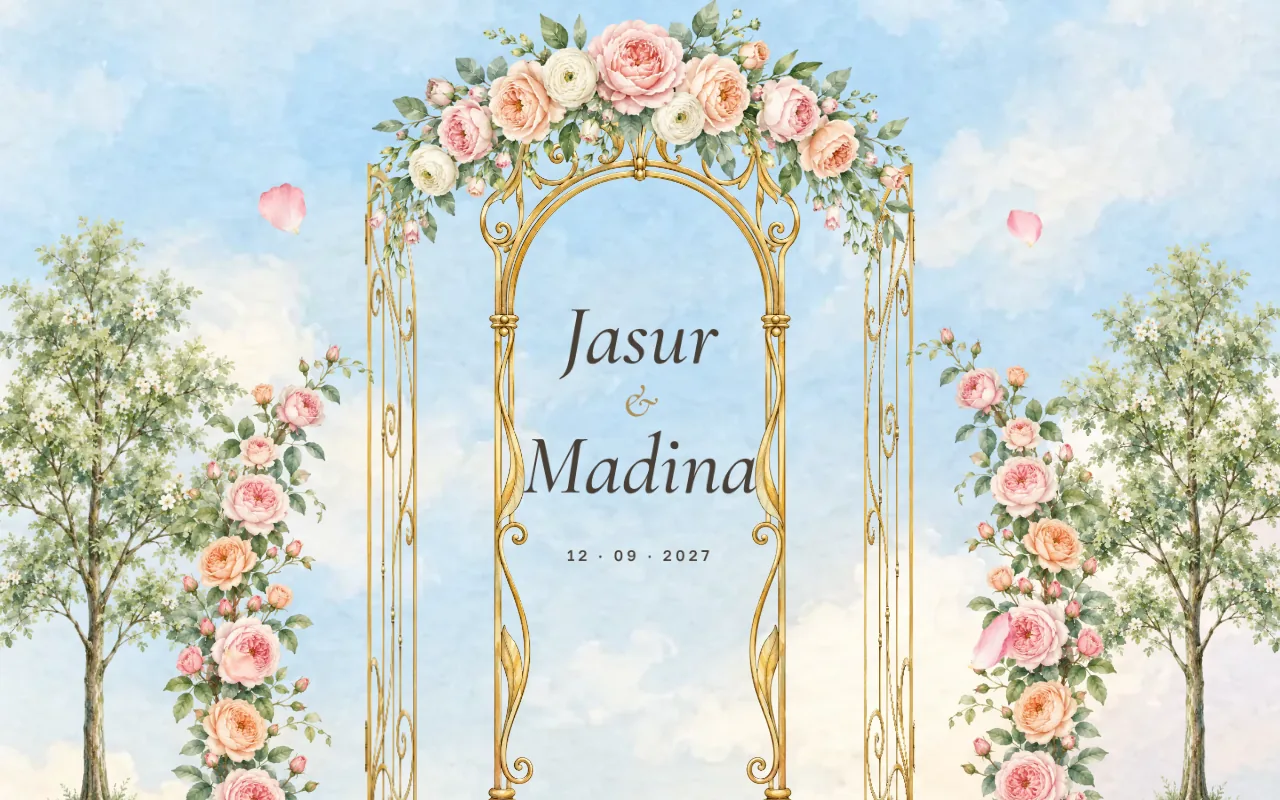
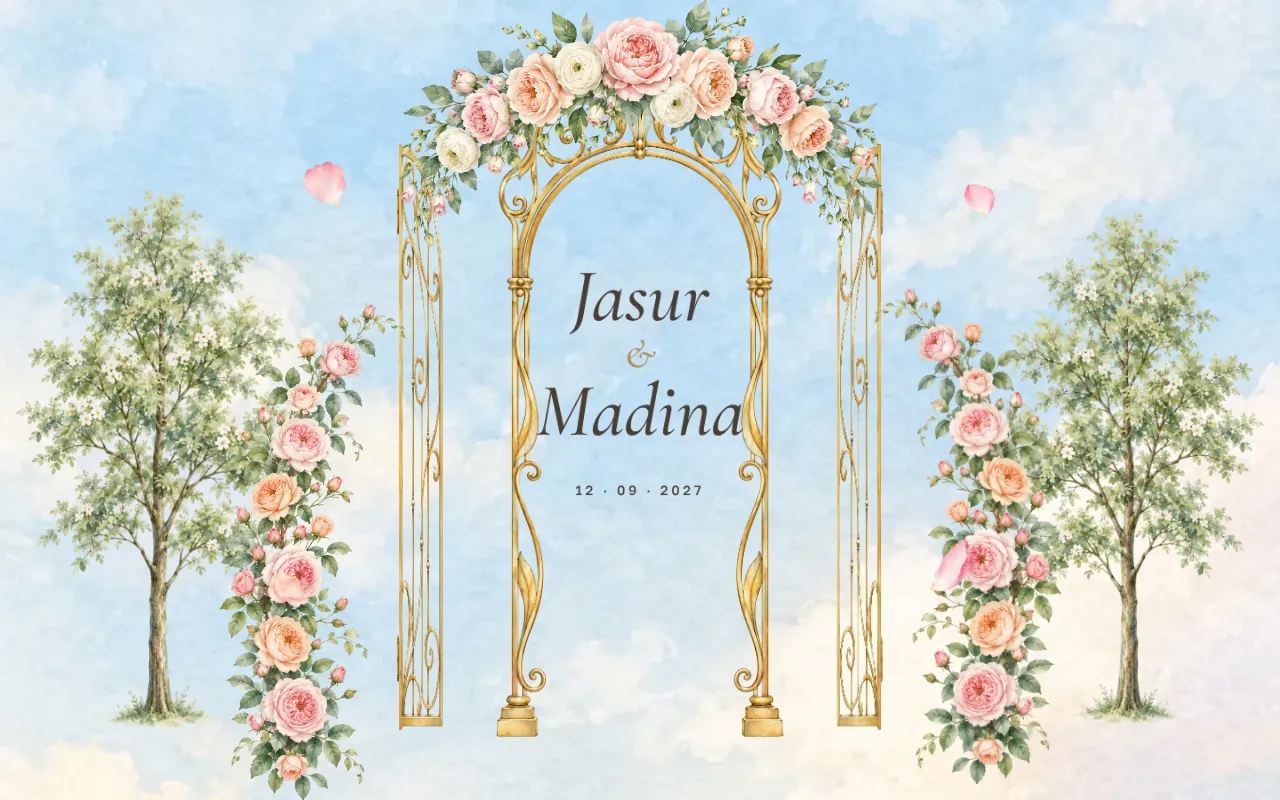
Shato: per-element appear animations, full-height gate, programme text width, new posters
Claude-Session: https://claude.ai/code/session_016Xzx6FBjREiHoteT8V9Jy8

diff --git a/src/components/templates/shato/ShatoSite.tsx b/src/components/templates/shato/ShatoSite.tsx
@@ -122,6 +122,56 @@ function Sec({ children, className, style, ready, threshold, id, z, onP }: { chi
   );
 }
 
+/**
+ * Appear: har bir [data-a] element (va so‘z) o‘zi ekranga kirganda `data-in` oladi — butun bo‘lim birdan emas.
+ * Yuqorida qolganlar (sahifa o‘rtasidan qayta yuklanganda) darrov ko‘rsatiladi. Keyin qo‘shilgan elementlar ham kuzatiladi.
+ */
+function useReveal(root: React.RefObject<HTMLDivElement | null>, ready: boolean, all: boolean) {
+  useEffect(() => {
+    const el = root.current;
+    if (!el || !ready) return;
+    const SEL = "[data-a]:not([data-in]),[data-w]:not([data-in])";
+    if (all) {
+      el.querySelectorAll<HTMLElement>(SEL).forEach((x) => x.setAttribute("data-in", ""));
+      return;
+    }
+    // Scroll bo‘yicha joylashuv tekshiruvi (IntersectionObserver ota elementning kesilishi tufayli chetdagi bezaklarni o‘tkazib yuborardi)
+    let list: HTMLElement[] = [];
+    let raf = 0;
+    const check = () => {
+      raf = 0;
+      const line = window.innerHeight * 0.9;
+      const atEnd = window.scrollY + window.innerHeight >= document.documentElement.scrollHeight - 4;
+      list = list.filter((x) => {
+        const r = x.getBoundingClientRect();
+        if (atEnd || r.top < line || r.bottom < 0) {
+          x.setAttribute("data-in", "");
+          return false;
+        }
+        return true;
+      });
+    };
+    const on = () => {
+      if (!raf) raf = requestAnimationFrame(check);
+    };
+    const scan = () => {
+      list = Array.from(el.querySelectorAll<HTMLElement>(SEL));
+      on();
+    };
+    scan();
+    const mo = new MutationObserver(scan);
+    mo.observe(el, { childList: true, subtree: true });
+    window.addEventListener("scroll", on, { passive: true });
+    window.addEventListener("resize", on);
+    return () => {
+      mo.disconnect();
+      window.removeEventListener("scroll", on);
+      window.removeEventListener("resize", on);
+      cancelAnimationFrame(raf);
+    };
+  }, [root, ready, all]);
+}
+
 function Img({ src, className, style, eager, a, contain }: { src: string; className?: string; style?: CSSProperties; eager?: boolean; a?: string; contain?: boolean }) {
   // eslint-disable-next-line @next/next/no-img-element
   return <img src={src} alt="" draggable={false} data-a={a} loading={eager ? "eager" : "lazy"} decoding="async" className={cx(st.img, contain && st.contain, className)} style={style} />;
@@ -193,7 +243,7 @@ function Words({ text, d0 = 0, step = 0.03 }: { text: string; d0?: number; step?
         /^\s+$/.test(w) ? (
           w
         ) : (
-          <span key={i} className={st.word} style={vars({ "--d": `${(d0 + step * k++).toFixed(2)}s` })}>
+          <span key={i} data-w className={st.word} style={vars({ "--d": `${(d0 + step * k++).toFixed(2)}s` })}>
             {w}
           </span>
         ),
@@ -311,7 +361,7 @@ function Gate({ d, wide, onReveal, onStart, still = false }: { d: D; wide: boole
     <div
       ref={wrap}
       className={cx(st.gateWrap, still && st.still)}
-      style={vars(still ? { "--u": `calc(100cqw / ${W})`, height: U(wide ? 900 : 815), marginBottom: 0 } : { "--u": wide ? "min(calc(100cqw / 1440), calc(100svh / 900))" : "min(calc(100cqw / 390), calc(100svh / 860))" })}
+      style={vars(still ? { "--u": `calc(100cqw / ${W})`, height: U(wide ? 900 : 815), marginBottom: 0 } : { "--u": wide ? "min(calc(100cqw / 1440), calc(100svh / 1020))" : "min(calc(100cqw / 390), calc(100svh / 890))" })}
     >
       <div className={st.gate} aria-label={t("Taklifnoma")} style={still ? { position: "relative", height: "100%", transform: "none" } : undefined}>
         <div className={st.gSky}>
@@ -721,14 +771,14 @@ function Stop({ it, i, wide, last, petal }: { it: ProgramItem; i: number; wide: 
           <Img src={icon} contain />
         </div>
         <span data-a="drop" className={st.dotGold} style={vars({ width: U(9), height: U(9), marginTop: U(-4.5), "--d": `${0.5 + i * 0.12}s` })} />
-        <p data-a="up" className={cx(st.serifI, st.clamp2)} style={vars({ fontSize: U(36), lineHeight: 1, color: "var(--ink)", marginTop: U(25.5), width: U(270), paddingBottom: "0.08em", "--y": 20, "--d": `${0.3 + i * 0.12}s` })}>
+        <p data-a="up" className={cx(st.serifI, st.clamp2)} style={vars({ fontSize: U(36), lineHeight: 1, color: "var(--ink)", marginTop: U(25.5), width: U(236), paddingBottom: "0.08em", "--y": 20, "--d": `${0.3 + i * 0.12}s` })}>
           {it.title}
         </p>
         <p data-a="flip" className={st.serifB} style={vars({ fontSize: U(30), color: "var(--gold)", marginTop: U(10), lineHeight: 1.2, "--d": `${0.45 + i * 0.12}s` })}>
           {it.time}
         </p>
         {it.note && (
-          <p data-a="up" className={cx(st.sans, st.clamp2)} style={vars({ fontSize: U(17), lineHeight: 1.45, color: "var(--muted)", marginTop: U(8), width: U(240), "--y": 16, "--d": `${0.5 + i * 0.12}s` })}>
+          <p data-a="up" className={cx(st.sans, st.clamp2)} style={vars({ fontSize: U(17), lineHeight: 1.45, color: "var(--muted)", marginTop: U(8), width: U(236), "--y": 16, "--d": `${0.5 + i * 0.12}s` })}>
             {it.note}
           </p>
         )}
@@ -1193,7 +1243,7 @@ function Final({ d, wide, ready, z, onSeen }: { d: D; wide: boolean; ready: bool
       <h2 className={cx(st.serifI, "absolute inset-x-0 text-center")} style={{ top: v(110, 120), lineHeight: 1, zIndex: 3, color: "var(--ink)" }}>
         <Fit base={wide ? 88 : 58} max={wide ? 1200 : 360} deps={title}>
           {[...title].map((ch, i) => (
-            <span key={i} className={st.word} style={vars({ "--d": `${(0.2 + 0.04 * k++).toFixed(2)}s` })}>
+            <span key={i} data-w className={st.word} style={vars({ "--d": `${(0.2 + 0.04 * k++).toFixed(2)}s` })}>
               {ch}
             </span>
           ))}
@@ -1270,6 +1320,7 @@ export function ShatoSite({ template, data, mode, embedded = false }: Invitation
     withGate,
     wide ? "l" : "m",
   );
+  useReveal(root, ready, embedded);
   const [loaderGone, setLoaderGone] = useState(!withGate);
   useEffect(() => {
     if (!loaded || loaderGone) return;

diff --git a/src/components/templates/shato/shato.module.css b/src/components/templates/shato/shato.module.css
@@ -148,19 +148,19 @@
   transition-timing-function: var(--e, var(--ease));
   transition-delay: var(--d, 0s);
 }
-.sec:not(.in) [data-a="up"] {
+.root [data-a="up"]:not([data-in]) {
   opacity: 0;
   transform: translateY(calc(var(--u) * var(--y, 40)));
 }
-.sec:not(.in) [data-a="fade"] {
+.root [data-a="fade"]:not([data-in]) {
   opacity: 0;
 }
-.sec:not(.in) [data-a="blur"] {
+.root [data-a="blur"]:not([data-in]) {
   opacity: 0;
   filter: blur(10px);
   transform: translateY(calc(var(--u) * 16));
 }
-.sec:not(.in) [data-a="rise"] {
+.root [data-a="rise"]:not([data-in]) {
   opacity: 0;
   transform: translateY(calc(var(--u) * var(--y, 80)));
 }
@@ -168,13 +168,13 @@
   transition-duration: var(--t, 1.2s);
 }
 /* Ark surat pastdan ochiladi (inset 100% → 0), ichida rasm 1.12 → 1 */
-.sec:not(.in) [data-a="arch"] {
+.root [data-a="arch"]:not([data-in]) {
   clip-path: inset(100% 0 0 0);
 }
 .root [data-a="arch"] {
   transition-duration: 1.4s;
 }
-.sec:not(.in) [data-a="zoom"] {
+.root [data-a="zoom"]:not([data-in]) {
   transform: scale(1.12);
 }
 .root [data-a="zoom"] {
@@ -186,7 +186,7 @@
   border: 1px solid rgba(176, 141, 87, 0.6);
   pointer-events: none;
 }
-.sec:not(.in) [data-a="line"] {
+.root [data-a="line"]:not([data-in]) {
   clip-path: inset(0 0 100% 0);
   opacity: 0;
 }
@@ -195,11 +195,11 @@
   transition-delay: 0.3s;
 }
 /* Monogramma oxirida oltin porlaydi */
-.sec:not(.in) [data-a="glow"] {
+.root [data-a="glow"]:not([data-in]) {
   opacity: 0;
   filter: blur(6px);
 }
-.in [data-a="glow"] {
+.root [data-a="glow"][data-in] {
   animation: glow 2.2s calc(var(--d, 0s) + 0.8s) ease-in-out 1 both;
 }
 @keyframes glow {
@@ -211,11 +211,11 @@
     text-shadow: 0 0 calc(var(--u) * 18) rgba(226, 195, 143, 0.85);
   }
 }
-.sec:not(.in) [data-a="drop"] {
+.root [data-a="drop"]:not([data-in]) {
   opacity: 0;
   transform: translateY(calc(var(--u) * var(--dy, -30)));
 }
-.sec:not(.in) [data-a="sway"] {
+.root [data-a="sway"]:not([data-in]) {
   opacity: 0;
   transform: translateY(calc(var(--u) * -30));
 }
@@ -223,21 +223,21 @@
   transition-duration: 1.4s;
 }
 /* Atirgul chirmovug‘i pastdan «o‘sib chiqadi» */
-.sec:not(.in) [data-a="grow"] {
+.root [data-a="grow"]:not([data-in]) {
   clip-path: inset(100% 0 0 0);
 }
 .root [data-a="grow"] {
   transition-duration: 1.6s;
   transition-delay: 0.2s;
 }
-.sec:not(.in) [data-a="lineX"] {
+.root [data-a="lineX"]:not([data-in]) {
   transform: scaleX(0);
 }
 .root [data-a="lineX"] {
   transform-origin: 0 50%;
   transition-duration: 1.2s;
 }
-.sec:not(.in) [data-a="lineY"] {
+.root [data-a="lineY"]:not([data-in]) {
   transform: scaleY(0);
 }
 .root [data-a="lineY"] {
@@ -245,7 +245,7 @@
   transition-duration: 0.8s;
 }
 /* Akvarel ikonka «bo‘yaladi»: mask-reveal + saturation 0→1, scale 0.94→1 */
-.sec:not(.in) [data-a="paint"] {
+.root [data-a="paint"]:not([data-in]) {
   opacity: 0;
   clip-path: inset(0 100% 0 0);
   filter: saturate(0);
@@ -255,7 +255,7 @@
   transition-duration: 1.4s;
 }
 /* Vaqt — oltin flip */
-.sec:not(.in) [data-a="flip"] {
+.root [data-a="flip"]:not([data-in]) {
   opacity: 0;
   transform: perspective(400px) rotateX(-80deg);
 }
@@ -264,21 +264,21 @@
   transition-duration: 0.8s;
 }
 /* Kalendar kunlari — to‘lqin */
-.sec:not(.in) [data-a="pop"] {
+.root [data-a="pop"]:not([data-in]) {
   opacity: 0;
   transform: translateY(calc(var(--u) * 10)) scale(0.85);
 }
 .root [data-a="pop"] {
   transition-duration: 0.7s;
 }
-.sec:not(.in) [data-a="ring"] {
+.root [data-a="ring"]:not([data-in]) {
   transform: scale(0);
 }
 .root [data-a="ring"] {
   transition-duration: 0.8s;
   transition-timing-function: var(--spring);
 }
-.sec:not(.in) [data-a="land"] {
+.root [data-a="land"]:not([data-in]) {
   opacity: 0;
   transform: translate(calc(var(--u) * 18), calc(var(--u) * -40)) rotate(-60deg);
 }
@@ -286,7 +286,7 @@
   transition-duration: 1.2s;
 }
 /* Dress-kod karta arkasi yuqoridan ochiladi */
-.sec:not(.in) [data-a="archOpen"] {
+.root [data-a="archOpen"]:not([data-in]) {
   opacity: 0;
   clip-path: inset(0 0 100% 0);
 }
@@ -301,7 +301,7 @@
   transition: opacity 0.9s var(--ease), filter 0.9s var(--ease), transform 0.9s var(--ease);
   transition-delay: var(--d, 0s);
 }
-.sec:not(.in) .word {
+.root .word:not([data-in]) {
   opacity: 0;
   filter: blur(8px);
   transform: translateY(calc(var(--u) * 16));
@@ -360,8 +360,9 @@
   opacity: calc(1 - var(--q) * 1.15);
 }
 .gNames {
-  /* ismlar sekinroq ketadi — kamera darvozadan o‘tayotganda ham ko‘rinib turadi */
-  transform: translate3d(0, calc(var(--k) * 0.3), 0) scale(calc(1 + var(--q) * 0.08));
+  /* ismlar sekinroq ketadi — kamera darvozadan o‘tayotganda ko‘rinib turadi, so‘ng yumshoq so‘nadi */
+  transform: translate3d(0, calc(var(--k) * 0.3), 0) scale(calc(1 + var(--q) * 0.12));
+  opacity: calc(1.6 - var(--q) * 2);
 }
 .gRoseL {
   transform: translate3d(calc(var(--q) * var(--u) * -120), calc(var(--k) * -0.3), 0) scale(calc(1 + var(--q) * 0.3));

diff --git a/src/lib/tplImgVersions.ts b/src/lib/tplImgVersions.ts
@@ -24,18 +24,18 @@ export const tplImgVersions: Record<string, string> = {
   "parvoz-ru-laptop.webp": "5e1ed872",
   "parvoz-ru-phone-long.webp": "32b2cd71",
   "parvoz-ru-phone.webp": "f57be9c4",
-  "shato-en-laptop-long.webp": "cee34c55",
-  "shato-en-laptop.webp": "9c0474a9",
-  "shato-en-phone-long.webp": "5b5afc92",
-  "shato-en-phone.webp": "2b2aa10a",
-  "shato-laptop-long.webp": "5801061d",
-  "shato-laptop.webp": "9c0474a9",
-  "shato-phone-long.webp": "1c1098fa",
-  "shato-phone.webp": "2b2aa10a",
-  "shato-ru-laptop-long.webp": "8442c557",
-  "shato-ru-laptop.webp": "5c1b388e",
-  "shato-ru-phone-long.webp": "624ba53c",
-  "shato-ru-phone.webp": "b635b1d9",
+  "shato-en-laptop-long.webp": "ea6f0898",
+  "shato-en-laptop.webp": "89012c11",
+  "shato-en-phone-long.webp": "65b075a6",
+  "shato-en-phone.webp": "f5eadb9a",
+  "shato-laptop-long.webp": "d960710f",
+  "shato-laptop.webp": "89012c11",
+  "shato-phone-long.webp": "26f7a8ea",
+  "shato-phone.webp": "68d769bc",
+  "shato-ru-laptop-long.webp": "768733dd",
+  "shato-ru-laptop.webp": "615133a1",
+  "shato-ru-phone-long.webp": "e070f4e0",
+  "shato-ru-phone.webp": "76295e2d",
   "zumrad-en-laptop-long.webp": "420ab45f",
   "zumrad-en-laptop.webp": "74b26331",
   "zumrad-en-phone-long.webp": "47f69201",
